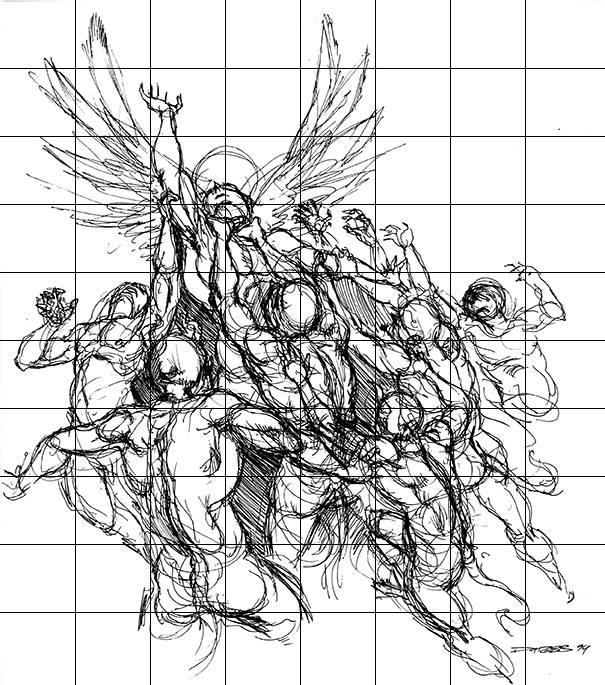
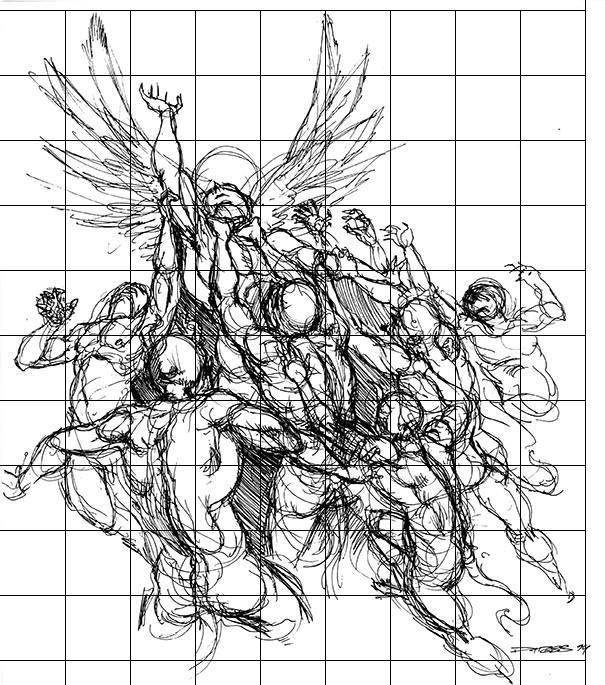
Something usefull
command line: 
python toGridded.py -i 1.jpg -v 9 -t 10 -r 20
output:
step =  65
last horizontal step:  0 ( 0 %)
last vertical step:  25 ( 38 %)

diff --git a/toGridded.py b/toGridded.py
@@ -7,65 +7,81 @@ from PIL import Image, ImageDraw
 def main(argv):
 	inputFile = ''
 	outputFile = ''
-	r = -1
-	g = -1
-	b = -1
-	h = 0;
-	v = 0;
+	#r = -1
+	#g = -1
+	#b = -1
 	
+	v = 10
+
+	tMargin = bMargin = lMargin = rMargin = 0
+
 	# Parsing the arguments passed on the command line:
 	try:
-		opts, args = getopt.getopt(argv, "ni:o:r:g:b:h:v:")
+		opts, args = getopt.getopt(argv, "hi:o:v:t:b:l:r:")
 	except getopt.GetoptError:
-		print 'usage: toGridded.py - i <inputfile> -o <outputfile>'
+		print 'usage: toGridded.py - i <inputfile> -o <outputfile> -v <nVerticalSteps> -t <topMargin> -b <bottomMargin> -l <leftMargin> -r <rightMargin>'
 		sys.exit (2)
 	for opt, arg in opts:
-		if opt == '-n':
-			print 'usage: toGridded.py - i <inputfile> -o <outputfile>'
+		if opt == '-h':
+			print 'usage: toGridded.py - i <inputfile> -o <outputfile> -v <nVerticalSteps> -t <topMargin> -b <bottomMargin> -l <leftMargin> -r <rightMargin>'
 			sys.exit ()
 		elif opt == '-i':
 			inputFile = arg
 		elif opt == '-o':
 			outputFile = arg
-		elif opt == '-r':
-			r = arg
-		elif opt == '-g':
-			g = arg
-		elif opt == '-b':
-			b = arg
-		elif opt == '-h':
-			h = int (arg)
 		elif opt == '-v':
 			v = int (arg)
+		elif opt == '-t':
+			tMargin = int (arg)
+		elif opt == '-b':
+			bMargin = int (arg)
+		elif opt == '-l':
+			lMargin = int (arg)
+		elif opt == '-r':
+			rMargin = int (arg)
 
-	if h == 0 or v == 0:
-		print '-h and -v must be specified'
-		sys.exit ()
-
-	# Openning the input file:
 	if not inputFile:
 		print 'The argument: <inputfile> is required.'
 		sys.exit ()
 	im = Image.open (inputFile)
 	
-	size = im.size
 	draw = ImageDraw.Draw (im)
 
 	# Choosing a color:
-	if r != -1 and g != -1 and b != -1:
-		rgb = True
-	else:
-		rgb = False
+	#if r != -1 and g != -1 and b != -1:
+	#	rgb = True
+	#else:
+	#	rgb = False
 
-	for y in range (1,h):
-		#if rgb:
-			draw.line((0, im.size[1]/h*y, im.size[0], im.size[1]/h*y), fill=0)
-		#else:
-		#	draw.line ((0 , 0) + size, fill=128)
+	# Drawing margins
+	if lMargin > 0:
+		draw.line((lMargin, tMargin, lMargin, im.size[1] - bMargin), fill=0)
+	if rMargin > 0:
+		draw.line((im.size[0] - rMargin, tMargin, im.size[0] - rMargin, im.size[1] - bMargin), fill=0)
+	if tMargin > 0:
+		draw.line((lMargin, tMargin, im.size[0] - rMargin, tMargin), fill=0)
+	if bMargin > 0:
+		draw.line((lMargin, im.size[1] - bMargin, im.size[0] - rMargin, im.size[1] - bMargin), fill=0)
+
+	width = im.size[0] - lMargin - rMargin
+	height = im.size[1] - tMargin - bMargin
+
+	step = width / v
+
+	print 'step = ', step
+	print 'last horizontal step: ', (width - (v*step)), '(', ((width - (v*step))*100/step), '%)'
+	print 'last vertical step: ', (height % step), '(', ((height%step)*100/step), '%)'
 	
-	for x in range(1,v):
-		draw.line((im.size[0]/v*x, 0, im.size[0]/v*x, im.size[1]), fill=0)
+	# Drawing vertical lines:
+	for i in range(1, v):
+		draw.line((lMargin + step*i, tMargin, lMargin + step*i, tMargin + height), fill=0)
+	draw.line((lMargin + step*v, 0, lMargin + step*v, im.size[1]), fill=0)
 
+	# Drawing horizontal lines:
+	for i in range (1, height/step + 1):
+		draw.line((lMargin, tMargin + step*i, lMargin+width, tMargin + step*i), fill=0)
+	#draw.line((0, tMargin + step*(height/step), im.size[0], tMargin + step*(height/step)), fill=0)
+	
 	im.show ()
 
 
@@ -78,5 +94,4 @@ def main(argv):
 if __name__ == "__main__":
 	main (sys.argv[1:])
 
-#
 
